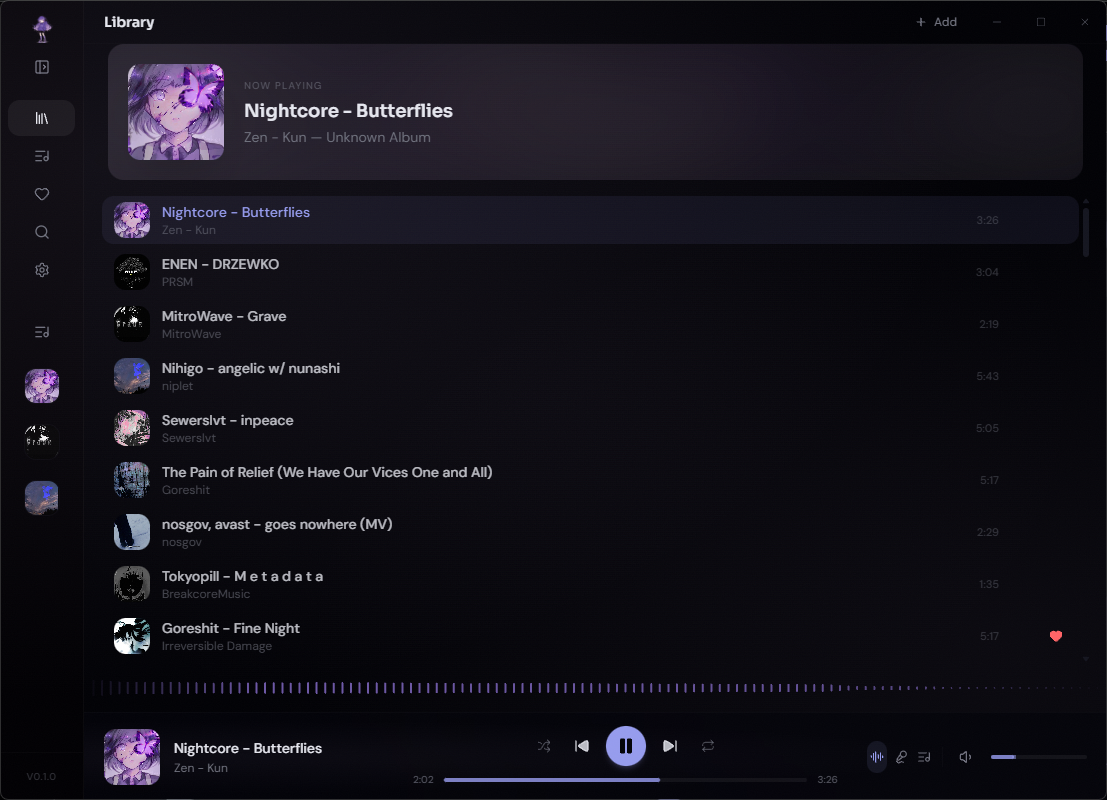
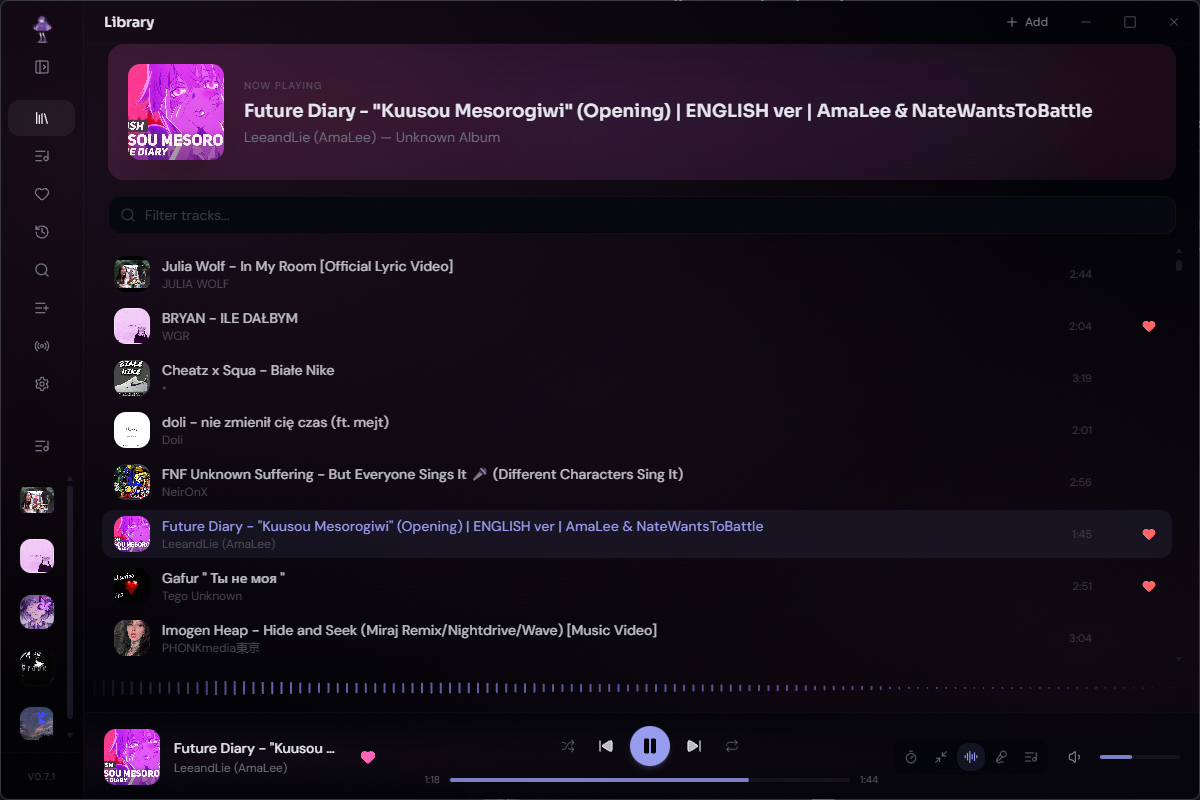
docs: update README and landing page to reflect current feature set
Expand README feature table from 10 to 20 items covering crossfade,
sleep timer, compact mode, visualizer, history, favorites, command
palette, Discord Rich Presence, ambient color, tray, media keys, UI
scale, and auto-updater. Expand landing page feature grid from 4 to 8
cards, update meta descriptions, fix outdated "first release" language,
and refresh app screenshots.

diff --git a/apps/landing/src/styles/global.css b/apps/landing/src/styles/global.css
@@ -872,6 +872,10 @@
   .reveal-stagger > .reveal:nth-child(2) { transition-delay: 60ms; }
   .reveal-stagger > .reveal:nth-child(3) { transition-delay: 120ms; }
   .reveal-stagger > .reveal:nth-child(4) { transition-delay: 180ms; }
+  .reveal-stagger > .reveal:nth-child(5) { transition-delay: 240ms; }
+  .reveal-stagger > .reveal:nth-child(6) { transition-delay: 300ms; }
+  .reveal-stagger > .reveal:nth-child(7) { transition-delay: 360ms; }
+  .reveal-stagger > .reveal:nth-child(8) { transition-delay: 420ms; }
 
   @media (max-width: 980px) {
     .hero-panel,

diff --git a/README.md b/README.md
@@ -37,7 +37,7 @@
 
 ### What is Shiranami?
 
-Shiranami is a desktop music player for people who keep their music locally. Instead of pushing you toward a streaming catalog, it wraps around your own folders and files and adds playlists, synced lyrics, internet radio, YouTube downloads, and full playlist importing on top, all in a dark lavender interface that stays out of your way.
+Shiranami is a desktop music player for people who keep their music locally. Instead of pushing you toward a streaming catalog, it wraps around your own folders and files and adds playlists, synced lyrics, internet radio, YouTube downloads, full playlist importing, crossfade, a compact mini player, audio visualizer, listening statistics, and Discord Rich Presence on top — all in a dark lavender interface that stays out of your way.
 
 ### Screenshot
 
@@ -49,18 +49,28 @@ Shiranami is a desktop music player for people who keep their music locally. Ins
 
 ### What's inside
 
-|                          |                                                                           |
-| ------------------------ | ------------------------------------------------------------------------- |
-| **Local library**        | Scan your folders, browse tracks, and play from your own collection       |
-| **Playlists**            | Create playlists with custom covers and quick access from the sidebar     |
-| **Playlist import**      | Pull full YouTube or Spotify playlists into a review list before download |
-| **Internet radio**       | Browse, stream, and favorite stations from Radio Browser                  |
-| **Synced lyrics**        | Lyrics that scroll with the music, right inside the player                |
-| **Search & download**    | Find tracks on YouTube and download them with yt-dlp + ffmpeg in one step |
-| **Playback resume**      | Volume, queue, track, and position survive restarts                       |
-| **Collapsible sidebar**  | Folds into an icon rail when you want more room for the music             |
-| **Configurable folder**  | Choose where downloaded tracks land, with a reset to the default          |
-| **Dark lavender mood**   | One quiet theme that matches the late-night listening vibe                |
+|                              |                                                                                |
+| ---------------------------- | ------------------------------------------------------------------------------ |
+| **Local library**            | Scan your folders, browse tracks, and play from your own collection            |
+| **Playlists**                | Create playlists with custom covers and quick access from the sidebar          |
+| **Playlist import**          | Pull full YouTube or Spotify playlists into a review list before download      |
+| **Internet radio**           | Browse, stream, and favorite stations from Radio Browser                       |
+| **Synced lyrics**            | Lyrics that scroll with the music, click any line to seek                      |
+| **Search & download**        | Find tracks on YouTube, preview audio, and download with yt-dlp + ffmpeg      |
+| **Crossfade**                | Dual-deck engine with equal-power crossfade, configurable from 1 to 12 seconds |
+| **Sleep timer**              | Preset durations with a live countdown and auto-pause when time is up          |
+| **Compact mode**             | Mini player with always-on-top, full controls in a smaller window              |
+| **Audio visualizer**         | Frequency bars or waveform strip rendered above the player bar                 |
+| **Listening history**        | Play counts, top tracks and artists, daily activity graph, time-range filters  |
+| **Favorites**                | Heart any track and browse them all in a dedicated view                        |
+| **Command palette**          | Ctrl+K to search your library and jump to any view instantly                   |
+| **Discord Rich Presence**    | Shows the currently playing track in your Discord status                       |
+| **Ambient color**            | Extracts the dominant color from album art and tints the entire UI             |
+| **Playback resume**          | Volume, queue, track, and position survive restarts                            |
+| **System tray & media keys** | Control playback from the tray icon or your keyboard's media keys              |
+| **UI scale**                 | Adjust the interface from 80 % to 120 % to match your display                 |
+| **Auto-updater**             | In-app updates on Windows, GitHub Releases link on macOS                       |
+| **Dark lavender mood**       | One quiet theme that matches the late-night listening vibe                     |
 
 ### Getting started
 
